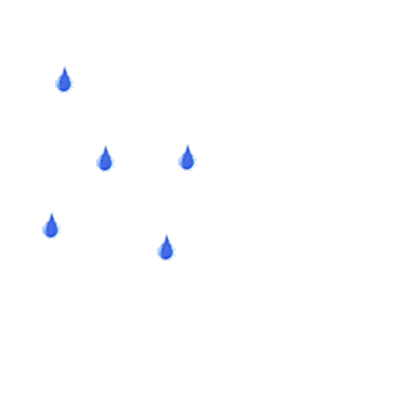
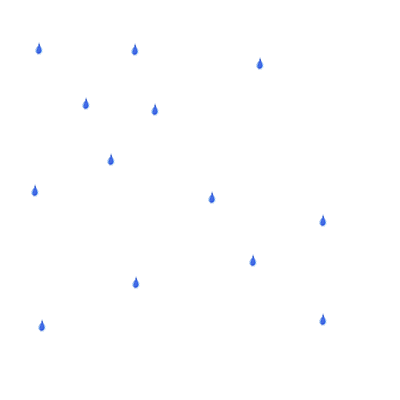
Backgrounds done, date and time as well #wearealmostdoneeeee

diff --git a/style.css b/style.css
@@ -1,19 +1,93 @@
 @import url('https://fonts.googleapis.com/css?family=News+Cycle');
-html {background-color:  #007FFF;}
+html {}
 
-#snow{  
 
-	background-image: url('Images/cloud2.png'), url('Images/cloud2.png'),  url('Images/cloud.png');
+#clearsky{
+    
+	font-family: Androgyne;
+	background-image: url('Images/cloud2.png'), url('Images/cloud2.png'), url('Images/cloud.png');
 	height: 100%;
 	left: 0;
 	position: absolute;
 	top: 0;
 	width: 100%;
 	z-index:1;
-	-webkit-animation: snow 25s linear infinite;
-	-moz-animation: snow 20s linear infinite;
-	-ms-animation: snow 25s linear infinite;
-	animation: snow 20s linear infinite;
+	-webkit-animation: clearsky 10s linear infinite;
+	-moz-animation: clearsky 10s linear infinite;
+	-ms-animation: clearsky 10s linear infinite;
+	animation: clearsky 10s linear infinite;
+}
+@keyframes clearsky {
+  0% {background-position: 0px 0px, 0px 0px, 0px 0px;}
+  50% {background-position: 500px 500px, 100px 200px, -100px 150px;}
+  100% {background-position: 500px 1000px, 200px 400px, -100px 300px;}
+}
+@-moz-keyframes clearsky {
+  0% {background-position: 0px 0px, 0px 0px, 0px 0px;}
+  50% {background-position: 500px 500px, 100px 200px, -100px 150px;}
+  100% {background-position: 400px 1000px, 200px 400px, 100px 300px;}
+}
+@-webkit-keyframes clearsky {
+  0% {background-position: 0px 0px, 0px 0px, 0px 0px;}
+  50% {background-position: 500px 500px, 100px 200px, -100px 150px;}
+  100% {background-position: 500px 1000px, 200px 400px, -100px 300px;}
+}
+@-ms-keyframes clearsky {
+  0% {background-position: 0px 0px, 0px 0px, 0px 0px;}
+  50% {background-position: 500px 500px, 100px 200px, -100px 150px;}
+  100% {background-position: 500px 1000px, 200px 400px, -100px 300px;}
+}	
+
+
+#rain{  
+	background-image: url('Images/rain.png'), url('Images/rain2.png'),  url('Images/rain.png');
+	height: 100%;
+	left: 0;
+	position: absolute;
+	top: 0;
+	width: 100%;
+	z-index:1;
+	-webkit-animation: rain 2s linear infinite;
+	-moz-animation: rain 2s linear infinite;
+	-ms-animation: rain 2s linear infinite;
+	animation: rain 2s linear infinite;
+}
+
+@keyframes rain {
+  0% {background-position: 0px 0px, 0px 0px, 0px 0px;}
+  50% {background-position: 500px 500px, 100px 200px, -100px 150px;}
+  100% {background-position: 500px 1000px, 200px 400px, -100px 300px;}
+}
+@-moz-keyframes rain {
+  0% {background-position: 0px 0px, 0px 0px, 0px 0px;}
+  50% {background-position: 500px 500px, 100px 200px, -100px 150px;}
+  100% {background-position: 400px 1000px, 200px 400px, 100px 300px;}
+}
+@-webkit-keyframes rain {
+  0% {background-position: 0px 0px, 0px 0px, 0px 0px;}
+  50% {background-position: 500px 500px, 100px 200px, -100px 150px;}
+  100% {background-position: 500px 1000px, 200px 400px, -100px 300px;}
+}
+@-ms-keyframes rain {
+  0% {background-position: 0px 0px, 0px 0px, 0px 0px;}
+  50% {background-position: 500px 500px, 100px 200px, -100px 150px;}
+  100% {background-position: 500px 1000px, 200px 400px, -100px 300px;}
+}	
+
+#snow{
+    
+	font-family: Androgyne;
+	background-image: url('Images/s1.png'), url('Images/snow2.png'), url('Images/snow3.png');
+	height: 100%;
+	left: 0;
+	position: absolute;
+	top: 0;
+	width: 100%;
+	z-index:1;
+	-webkit-animation: snow 10s linear infinite;
+	-moz-animation: snow 10s linear infinite;
+	-ms-animation: snow 10s linear infinite;
+	animation: snow 10s linear infinite;
 }
 @keyframes snow {
   0% {background-position: 0px 0px, 0px 0px, 0px 0px;}
@@ -36,9 +110,11 @@ html {background-color:  #007FFF;}
   100% {background-position: 500px 1000px, 200px 400px, -100px 300px;}
 }	
 
+
 body {
     margin: 0 15% 0 15%;
     background-color: white;	
+     opacity: 0.7;
 }
 
 img {

diff --git a/RSSfeed.js b/RSSfeed.js
@@ -1,3 +1,76 @@
+backgroundColor();
+function backgroundColor(){    
+    var currentTime = new Date().getHours();
+    if(7 <= currentTime && currentTime < 20){
+        document.getElementById('clearsky').style.backgroundColor = "#87CEFA";
+    }else{
+       document.getElementById('clearsky').style.backgroundColor = "#000217";
+    }
+}
+
+ var today = new Date();
+
+function checkTime(i) {
+    if (i < 10) {
+        i = "0" + i;
+    }
+    return i;
+}
+var week = new Array(7);
+
+dates();
+
+function dates(){
+    
+    var day = today.getDate();
+    var mo = today.getMonth();
+    var year = today.getFullYear();
+    
+    week[0] = "Sunday";
+    week[1] = "Monday";
+    week[2] = "Tuesday";
+    week[3] = "Wednesday";
+    week[4] = "Thursday";
+    week[5] = "Friday";
+    week[6] = "Saturday";
+    
+    var dw = week[today.getDay()];
+    
+    
+    document.getElementById('date').innerHTML = dw +" "+ mo + "/" + day + "/" + year;
+}
+ 
+
+function startTime() {
+    var today = new Date();
+    var h = today.getHours();
+    var m = today.getMinutes();
+    var s = today.getSeconds();
+    var time = " ";
+    m = checkTime(m);
+    s = checkTime(s);
+    if(h > 11){
+        time = "p.m."
+    }if(h <11){
+        time = "a.m."
+    }
+    
+    if(h > 12){
+       h = h - 12;
+    }
+    if(h == 0){
+        h = 12;
+    }
+    
+    
+    
+    document.getElementById('time').innerHTML = h + ":" + m + ":" + s + " " + time;
+    t = setTimeout(function () {
+        startTime()
+    }, 500);
+}
+startTime();
+
 $(document).ready(function () {
     getArticles('http://www.npr.org/rss/rss.php?id=1001', '#bus');
     getArticles('http://www.npr.org/rss/rss.php?id=1006', '#top');

diff --git a/index.html b/index.html
@@ -1,5 +1,5 @@
 <DOCTYPE html>
-    <html id='snow'>      
+    <html id='clearsky'>      
         
     <link type="text/css" rel="stylesheet" href="style.css" />
 
@@ -9,6 +9,8 @@
 
     <header>
         <img src="CENNlogo.png">
+        <div id='date'></div>
+        <div id= 'time'></div>
     </header>
     <body>
         
